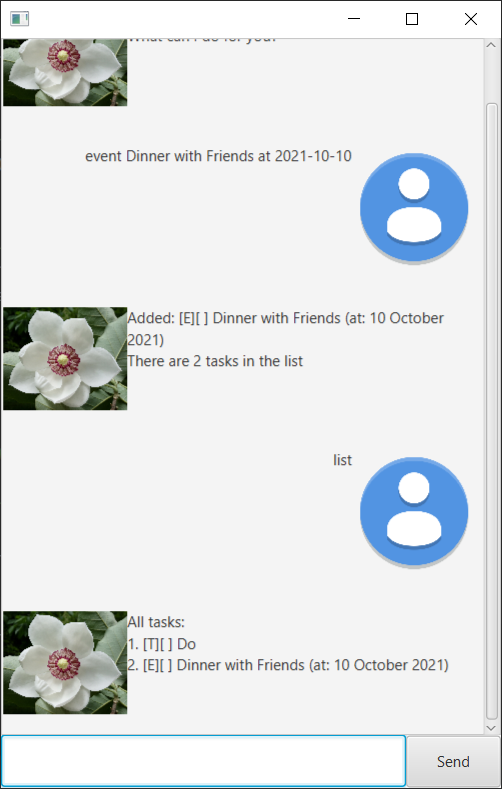
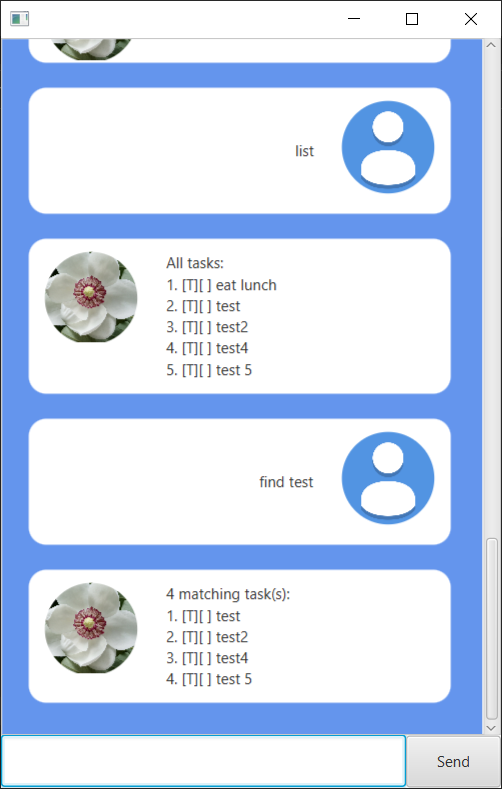
Improve GUI

diff --git a/src/main/java/duke/DialogBox.java b/src/main/java/duke/DialogBox.java
@@ -13,6 +13,7 @@ import javafx.scene.control.Label;
 import javafx.scene.image.Image;
 import javafx.scene.image.ImageView;
 import javafx.scene.layout.HBox;
+import javafx.scene.shape.Circle;
 
 /**
  * Dialog box of chat box. From JavaFX tutorial.
@@ -35,6 +36,8 @@ public class DialogBox extends HBox {
 
         dialog.setText(text);
         displayPicture.setImage(img);
+        displayPicture.setClip(new Circle(displayPicture.getFitWidth() / 2,
+                displayPicture.getFitHeight() / 2.1, 37));
     }
 
     /**
